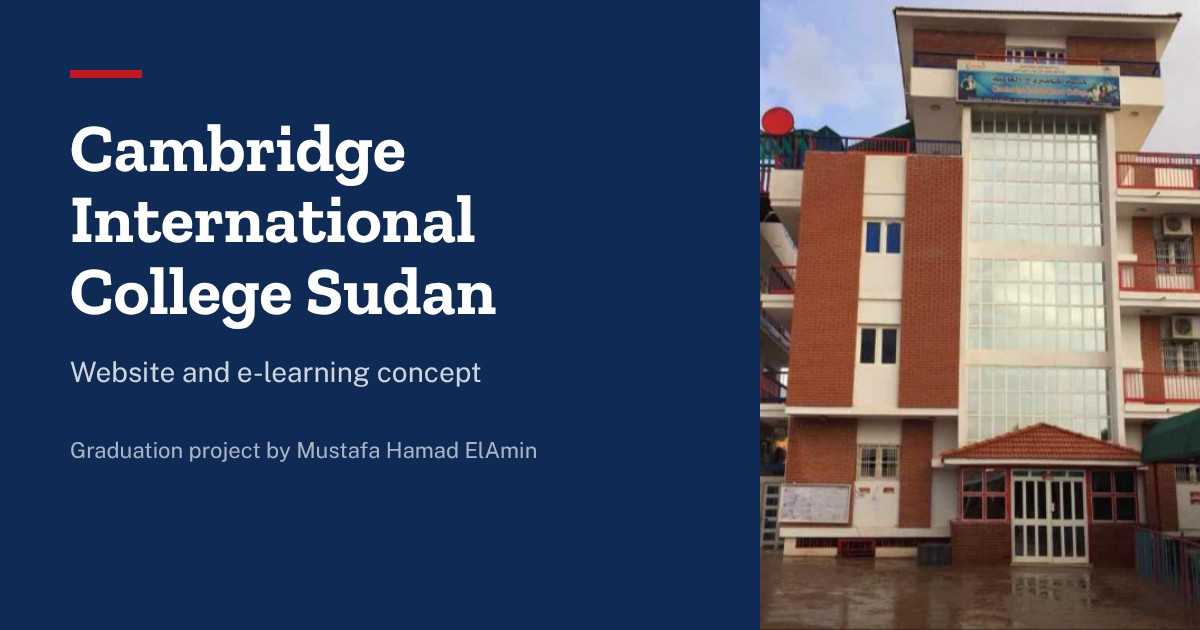
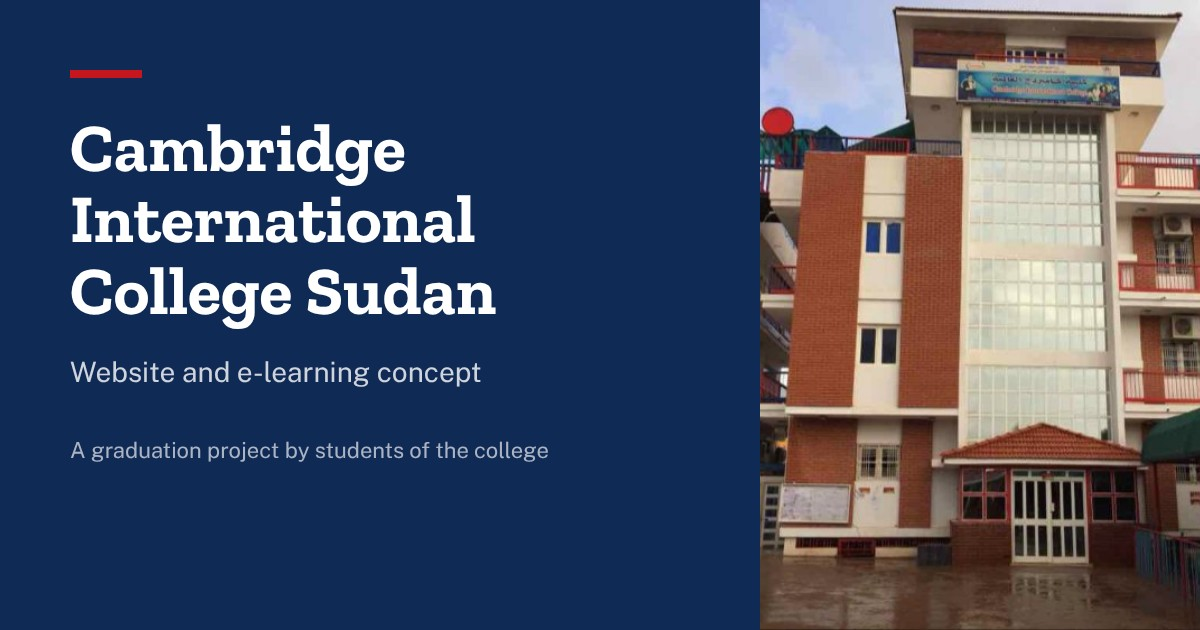
Credit the project to students of the college
The graduation project was shared by a team of three, so the notice,
footer, page descriptions, link preview image and README no longer name
one person.

Claude-Session: https://claude.ai/code/session_01TkRPnwSefusrgepjoER5a5

Changed region(s): [[0.0617, 0.6937, 0.4625, 0.754]]

diff --git a/app/data/i18n.ts b/app/data/i18n.ts
@@ -16,9 +16,9 @@ export function localize(path: string, lang: Lang) {
 
 const en = {
   languageName: 'English',
-  notice: 'Graduation project by Mustafa Hamad ElAmin. This is not the official website of the college.',
+  notice: 'A graduation project by students of the college. This is not the official website of the college.',
   footerNote: (year: number) =>
-    `Graduation project by Mustafa Hamad ElAmin, ${year}. Not affiliated with the college's official website.`,
+    `A graduation project by students of the college, ${year}. Not affiliated with the college's official website.`,
   nav: { home: 'Home', about: 'About', departments: 'Departments', contact: 'Contact', elearning: 'E-learning' },
   menu: { open: 'Open menu', close: 'Close menu' },
   homeAria: 'Cambridge International College Sudan, home',
@@ -179,8 +179,8 @@ const en = {
 
 const ar: typeof en = {
   languageName: 'العربية',
-  notice: 'مشروع تخرج من إعداد مصطفى حمد الأمين. هذا ليس الموقع الرسمي للكلية.',
-  footerNote: (year) => `مشروع تخرج من إعداد مصطفى حمد الأمين، ${year}. غير تابع للموقع الرسمي للكلية.`,
+  notice: 'مشروع تخرج من إعداد طلاب الكلية. هذا ليس الموقع الرسمي للكلية.',
+  footerNote: (year) => `مشروع تخرج من إعداد طلاب الكلية، ${year}. غير تابع للموقع الرسمي للكلية.`,
   nav: { home: 'الرئيسية', about: 'عن الكلية', departments: 'الأقسام', contact: 'تواصل معنا', elearning: 'التعليم الإلكتروني' },
   menu: { open: 'افتح القائمة', close: 'أغلق القائمة' },
   homeAria: 'كلية كامبردج العالمية - السودان، الصفحة الرئيسية',

diff --git a/app/ar/e-learning/teacher/page.tsx b/app/ar/e-learning/teacher/page.tsx
@@ -4,7 +4,7 @@ import TeacherDashboard from '@/app/components/elearning/TeacherDashboard'
 
 export const metadata: Metadata = {
   title: { absolute: 'التعليم الإلكتروني للأستاذ | كلية كامبردج العالمية - السودان' },
-  description: 'موقع ونظام تعليم إلكتروني تجريبي لكلية كامبردج العالمية - السودان. مشروع تخرج من إعداد مصطفى حمد الأمين.',
+  description: 'موقع ونظام تعليم إلكتروني تجريبي لكلية كامبردج العالمية - السودان. مشروع تخرج من إعداد طلاب الكلية.',
 }
 
 export default function Page() {

diff --git a/app/ar/e-learning/student/page.tsx b/app/ar/e-learning/student/page.tsx
@@ -4,7 +4,7 @@ import StudentDashboard from '@/app/components/elearning/StudentDashboard'
 
 export const metadata: Metadata = {
   title: { absolute: 'التعليم الإلكتروني للطالب | كلية كامبردج العالمية - السودان' },
-  description: 'موقع ونظام تعليم إلكتروني تجريبي لكلية كامبردج العالمية - السودان. مشروع تخرج من إعداد مصطفى حمد الأمين.',
+  description: 'موقع ونظام تعليم إلكتروني تجريبي لكلية كامبردج العالمية - السودان. مشروع تخرج من إعداد طلاب الكلية.',
 }
 
 export default function Page() {

diff --git a/app/ar/departments/english-language-and-literature/page.tsx b/app/ar/departments/english-language-and-literature/page.tsx
@@ -4,7 +4,7 @@ import DepartmentScreen from '@/app/screens/DepartmentScreen'
 
 export const metadata: Metadata = {
   title: { absolute: 'اللغة الإنجليزية وآدابها | كلية كامبردج العالمية - السودان' },
-  description: 'موقع ونظام تعليم إلكتروني تجريبي لكلية كامبردج العالمية - السودان. مشروع تخرج من إعداد مصطفى حمد الأمين.',
+  description: 'موقع ونظام تعليم إلكتروني تجريبي لكلية كامبردج العالمية - السودان. مشروع تخرج من إعداد طلاب الكلية.',
 }
 
 export default function Page() {

diff --git a/app/ar/departments/electrical-engineering/page.tsx b/app/ar/departments/electrical-engineering/page.tsx
@@ -4,7 +4,7 @@ import DepartmentScreen from '@/app/screens/DepartmentScreen'
 
 export const metadata: Metadata = {
   title: { absolute: 'الهندسة الكهربائية | كلية كامبردج العالمية - السودان' },
-  description: 'موقع ونظام تعليم إلكتروني تجريبي لكلية كامبردج العالمية - السودان. مشروع تخرج من إعداد مصطفى حمد الأمين.',
+  description: 'موقع ونظام تعليم إلكتروني تجريبي لكلية كامبردج العالمية - السودان. مشروع تخرج من إعداد طلاب الكلية.',
 }
 
 export default function Page() {

diff --git a/app/ar/e-learning/page.tsx b/app/ar/e-learning/page.tsx
@@ -4,7 +4,7 @@ import ELearningScreen from '@/app/screens/ELearningScreen'
 
 export const metadata: Metadata = {
   title: { absolute: 'التعليم الإلكتروني | كلية كامبردج العالمية - السودان' },
-  description: 'موقع ونظام تعليم إلكتروني تجريبي لكلية كامبردج العالمية - السودان. مشروع تخرج من إعداد مصطفى حمد الأمين.',
+  description: 'موقع ونظام تعليم إلكتروني تجريبي لكلية كامبردج العالمية - السودان. مشروع تخرج من إعداد طلاب الكلية.',
 }
 
 export default function Page() {

diff --git a/app/ar/departments/civil-engineering/page.tsx b/app/ar/departments/civil-engineering/page.tsx
@@ -4,7 +4,7 @@ import DepartmentScreen from '@/app/screens/DepartmentScreen'
 
 export const metadata: Metadata = {
   title: { absolute: 'الهندسة المدنية | كلية كامبردج العالمية - السودان' },
-  description: 'موقع ونظام تعليم إلكتروني تجريبي لكلية كامبردج العالمية - السودان. مشروع تخرج من إعداد مصطفى حمد الأمين.',
+  description: 'موقع ونظام تعليم إلكتروني تجريبي لكلية كامبردج العالمية - السودان. مشروع تخرج من إعداد طلاب الكلية.',
 }
 
 export default function Page() {

diff --git a/app/ar/departments/information-technology/page.tsx b/app/ar/departments/information-technology/page.tsx
@@ -4,7 +4,7 @@ import DepartmentScreen from '@/app/screens/DepartmentScreen'
 
 export const metadata: Metadata = {
   title: { absolute: 'تقنية المعلومات | كلية كامبردج العالمية - السودان' },
-  description: 'موقع ونظام تعليم إلكتروني تجريبي لكلية كامبردج العالمية - السودان. مشروع تخرج من إعداد مصطفى حمد الأمين.',
+  description: 'موقع ونظام تعليم إلكتروني تجريبي لكلية كامبردج العالمية - السودان. مشروع تخرج من إعداد طلاب الكلية.',
 }
 
 export default function Page() {

diff --git a/app/ar/departments/business-administration/page.tsx b/app/ar/departments/business-administration/page.tsx
@@ -4,7 +4,7 @@ import DepartmentScreen from '@/app/screens/DepartmentScreen'
 
 export const metadata: Metadata = {
   title: { absolute: 'إدارة الأعمال | كلية كامبردج العالمية - السودان' },
-  description: 'موقع ونظام تعليم إلكتروني تجريبي لكلية كامبردج العالمية - السودان. مشروع تخرج من إعداد مصطفى حمد الأمين.',
+  description: 'موقع ونظام تعليم إلكتروني تجريبي لكلية كامبردج العالمية - السودان. مشروع تخرج من إعداد طلاب الكلية.',
 }
 
 export default function Page() {

diff --git a/app/ar/departments/accounting/page.tsx b/app/ar/departments/accounting/page.tsx
@@ -4,7 +4,7 @@ import DepartmentScreen from '@/app/screens/DepartmentScreen'
 
 export const metadata: Metadata = {
   title: { absolute: 'المحاسبة | كلية كامبردج العالمية - السودان' },
-  description: 'موقع ونظام تعليم إلكتروني تجريبي لكلية كامبردج العالمية - السودان. مشروع تخرج من إعداد مصطفى حمد الأمين.',
+  description: 'موقع ونظام تعليم إلكتروني تجريبي لكلية كامبردج العالمية - السودان. مشروع تخرج من إعداد طلاب الكلية.',
 }
 
 export default function Page() {

diff --git a/app/ar/departments/page.tsx b/app/ar/departments/page.tsx
@@ -4,7 +4,7 @@ import DepartmentsScreen from '@/app/screens/DepartmentsScreen'
 
 export const metadata: Metadata = {
   title: { absolute: 'الأقسام | كلية كامبردج العالمية - السودان' },
-  description: 'موقع ونظام تعليم إلكتروني تجريبي لكلية كامبردج العالمية - السودان. مشروع تخرج من إعداد مصطفى حمد الأمين.',
+  description: 'موقع ونظام تعليم إلكتروني تجريبي لكلية كامبردج العالمية - السودان. مشروع تخرج من إعداد طلاب الكلية.',
 }
 
 export default function Page() {

diff --git a/app/ar/about/page.tsx b/app/ar/about/page.tsx
@@ -4,7 +4,7 @@ import AboutScreen from '@/app/screens/AboutScreen'
 
 export const metadata: Metadata = {
   title: { absolute: 'عن الكلية | كلية كامبردج العالمية - السودان' },
-  description: 'موقع ونظام تعليم إلكتروني تجريبي لكلية كامبردج العالمية - السودان. مشروع تخرج من إعداد مصطفى حمد الأمين.',
+  description: 'موقع ونظام تعليم إلكتروني تجريبي لكلية كامبردج العالمية - السودان. مشروع تخرج من إعداد طلاب الكلية.',
 }
 
 export default function Page() {
